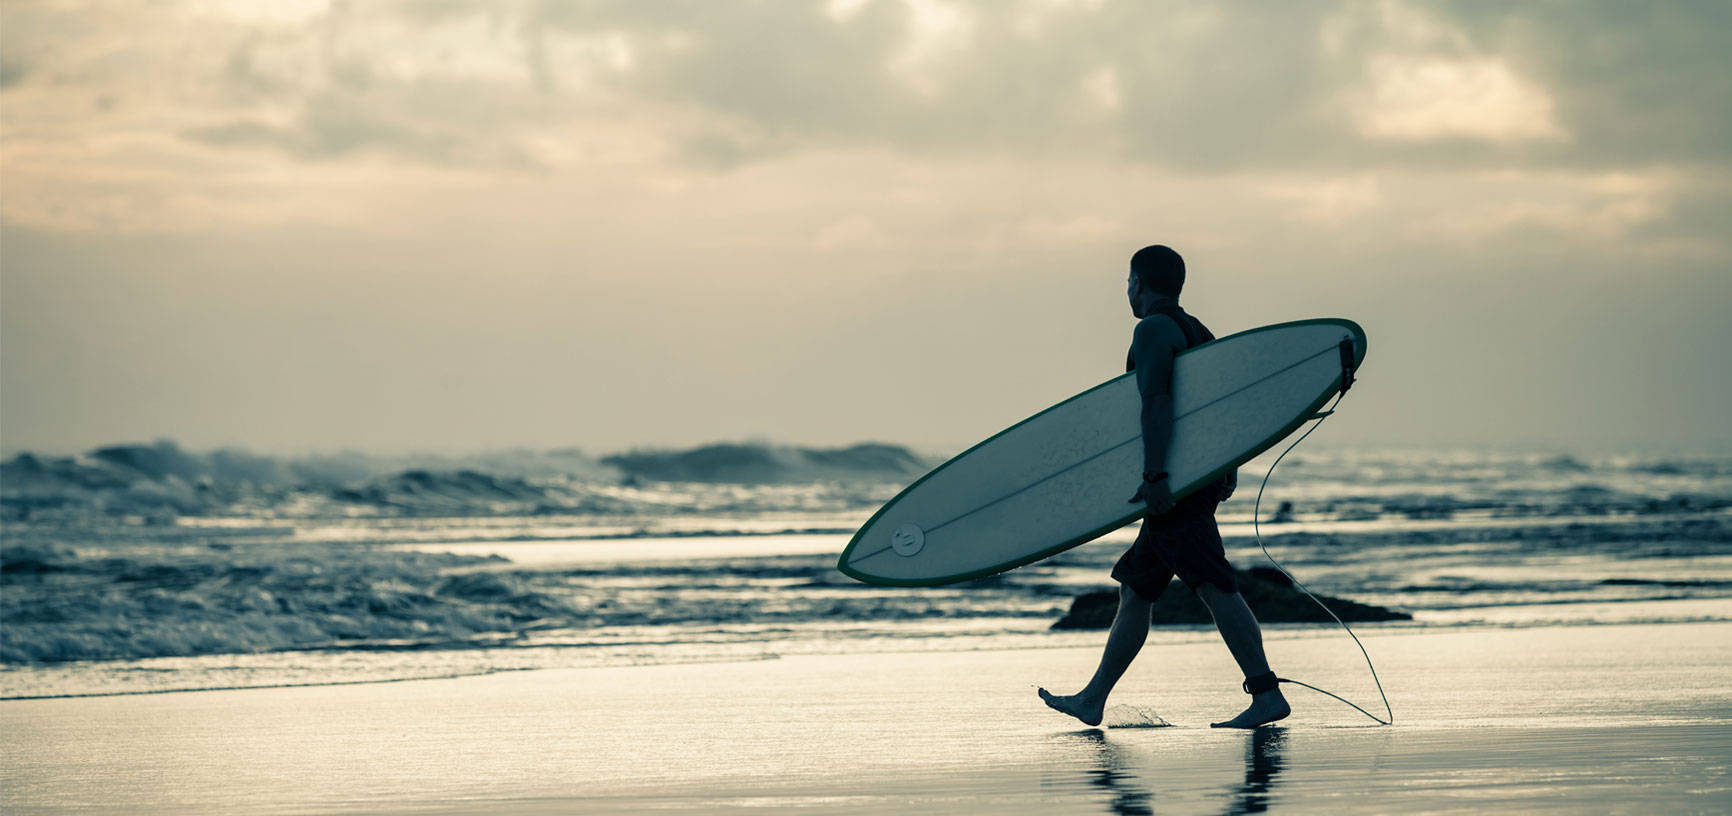
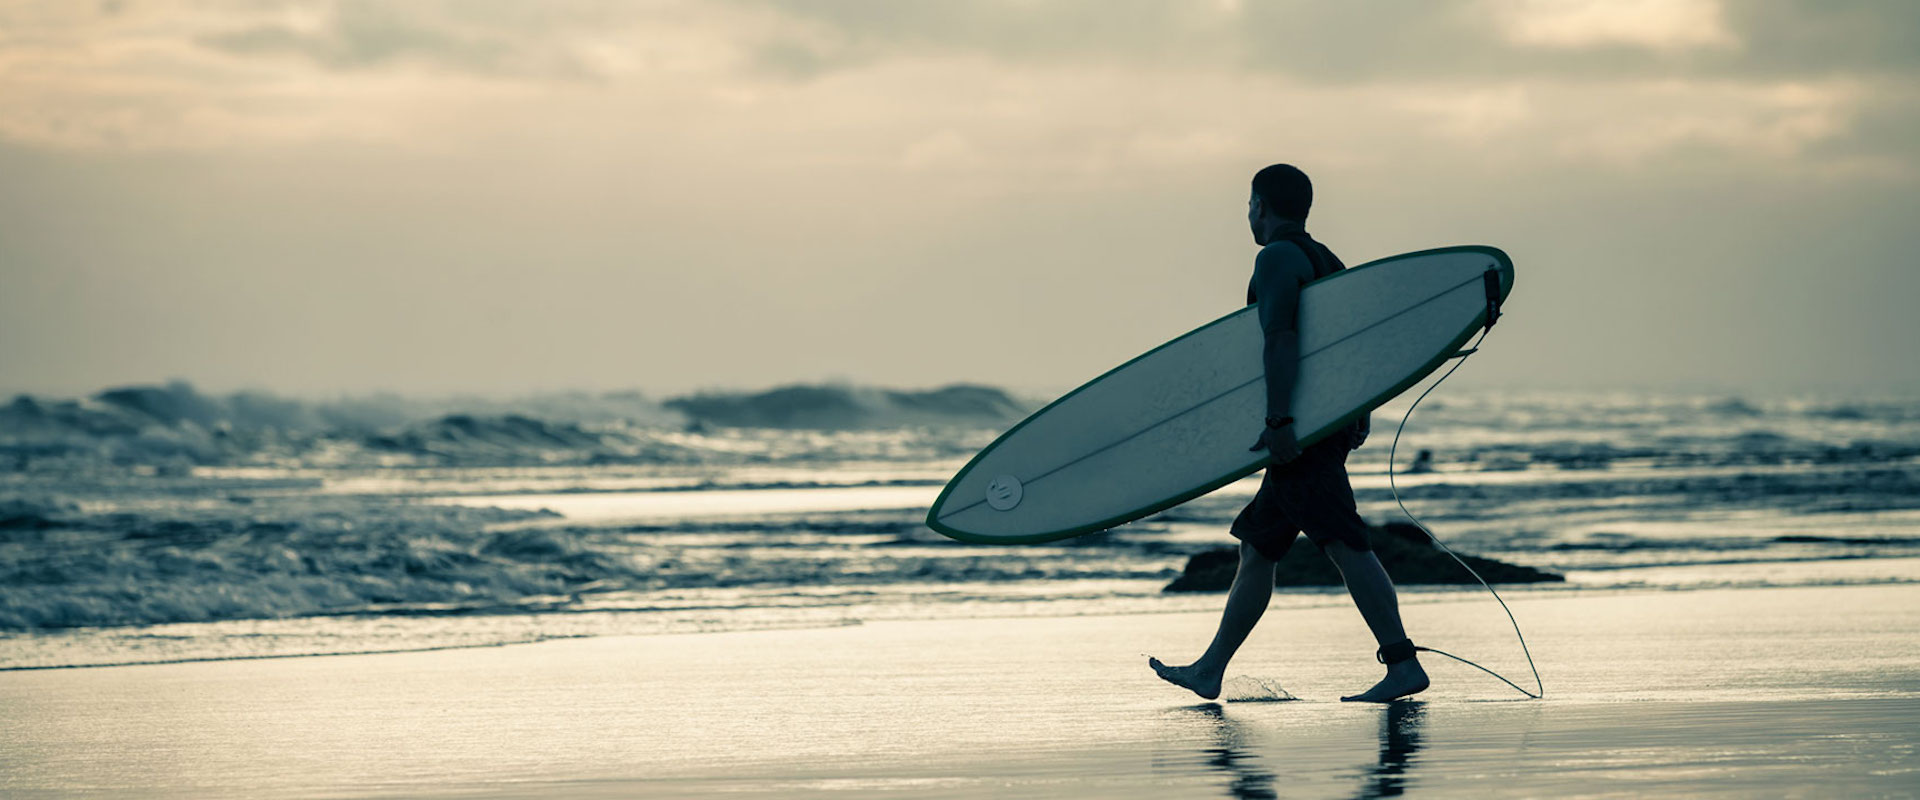
add backgroung image and content

diff --git a/src/scripts/script.js b/src/scripts/script.js
@@ -1,79 +1,139 @@
-const img1 = require('../static/img/main_home.jpg');
-const img2 = require('../static/img/main_spots.jpg');
-const img3 = require('../static/img/main_news.jpg');
+document.addEventListener('DOMContentLoaded', () => {
+  const img1 = require('../static/img/main_home.jpg');
+  const img2 = require('../static/img/main_spots.jpg');
+  const img3 = require('../static/img/main_news.jpg');
 
-// Model qui permet de récupérer la data
-class Model {
-  constructor() {
-    this.data = [
-      {
-        url: '/',
-        documentTitle: 'Homepage',
-        imgSrc: img1,
-        title: 'Acceuil',
-      },
-      {
-        url: '/spots',
-        documentTitle: 'All spots',
-        imgSrc: img2,
-        title: 'Spots map',
-      },
-      {
-        url: '/news',
-        documentTitle: 'News',
-        imgSrc: img3,
-        title: 'News',
-      },
-    ];
+  // Model qui permet de récupérer la data
+  class Model {
+    constructor() {
+      this.pages = [
+        {
+          url: '#',
+          documentTitle: 'Homepage',
+          imgSrc: img1,
+          title: 'Acceuil',
+          content: `
+            <div>
+            Lorem ipsum dolor sit amet consectetur adipisicing elit. Voluptate suscipit nihil dolores repellendus alias illum vitae. Et unde enim ducimus, exercitationem dolorum, eum omnis autem, quasi ipsa a illum animi.
+            Lorem ipsum dolor sit amet consectetur adipisicing elit. Voluptate suscipit nihil dolores repellendus alias illum vitae. Et unde enim ducimus, exercitationem dolorum, eum omnis autem, quasi ipsa a illum animi.
+            Lorem ipsum dolor sit amet consectetur adipisicing elit. Voluptate suscipit nihil dolores repellendus alias illum vitae. Et unde enim ducimus, exercitationem dolorum, eum omnis autem, quasi ipsa a illum animi.
+            </div>
+          `,
+        },
+        {
+          url: '#spots',
+          documentTitle: 'All spots',
+          imgSrc: img2,
+          title: 'Spots map',
+        },
+        {
+          url: '#news',
+          documentTitle: 'News',
+          imgSrc: img3,
+          title: 'News',
+        },
+      ];
+    }
+
+    getPageByUrl(url) {
+      return this.pages.find((page) => page.url === url);
+    }
   }
 
-  getPageByUrl(url) {
-    return this.data.find((page) => page.url === url);
+  // View qui permet de modifier le template html
+  class View {
+    constructor(pages) {
+      this.container = document.querySelector('.container');
+      this.container.innerHTML = '';
+      this.addHeader(pages);
+    }
+
+    addHeader(pages) {
+      const fragment = document.createDocumentFragment();
+
+      const $header = document.createElement('header');
+      $header.classList.add('header');
+
+      const $ulElt = document.createElement('ul');
+      $ulElt.classList.add('header__nav');
+
+      const $title = document.createElement('p');
+      $title.classList.add('header__title');
+      $title.innerText = 'Worlwide surf spots database';
+
+      pages.forEach((page) => {
+        const $liElt = document.createElement('li');
+        const $button = document.createElement('div');
+        $button.innerText = page.title;
+        $button.addEventListener('click', () => {
+          location.hash = page.url;
+        });
+
+        $liElt.appendChild($button);
+        $ulElt.appendChild($liElt);
+      });
+
+      $header.appendChild($ulElt);
+      $header.appendChild($title);
+      fragment.appendChild($header);
+      this.container.appendChild(fragment);
+    }
+
+    addContent(content) {
+      const fragment = document.createDocumentFragment();
+      const $content = document.createElement('div');
+      $content.classList.add('container__content');
+      $content.innerHTML = content;
+
+      fragment.appendChild($content);
+      this.container.appendChild(fragment);
+    }
+    changedocumentTile(option) {
+      document.title = option;
+    }
+
+    setBackgroungImage(option) {
+      const fragment = document.createDocumentFragment();
+
+      const $imageContainer = document.createElement('div');
+      $imageContainer.classList.add('container__image');
+      $imageContainer.style.backgroundImage = `url(${option})`;
+
+      fragment.appendChild($imageContainer);
+      this.container.appendChild(fragment);
+    }
+
+    setMainTitle(option) {
+      const fragment = document.createDocumentFragment();
+
+      const $mainTitle = document.createElement('h1');
+      $mainTitle.classList.add('container__title');
+      $mainTitle.textContent = option;
+
+      fragment.appendChild($mainTitle);
+      this.container.appendChild(fragment);
+    }
   }
-}
 
-// View qui permet de modifier le template html
-class View {
-  constructor() {
-    this.container = document.querySelector('.container');
+  // Controller qui permet de gérer l'ensemble de l'application
+  function controller() {
+    const data = new Model();
+
+    const currentPage = data.getPageByUrl(location.hash || '#');
+
+    const render = new View(data.pages);
+    render.changedocumentTile(currentPage.documentTitle);
+    render.setBackgroungImage(currentPage.imgSrc);
+    render.setMainTitle(currentPage.title);
+
+    if (currentPage.content) {
+      render.addContent(currentPage.content);
+    }
   }
 
-  changedocumentTile(option) {
-    document.title = option;
-  }
+  window.addEventListener('hashchange', () => {
+    controller();
+  });
 
-  setBackgroungImage(option) {
-    const $imageContainer = document.createElement('div');
-    $imageContainer.classList.add('container__image');
-
-    const $backgroundImg = document.createElement('img');
-    $backgroundImg.setAttribute('src', option);
-    $backgroundImg.classList.add('image');
-
-    $imageContainer.appendChild($backgroundImg);
-    this.container.appendChild($imageContainer);
-  }
-
-  setMainTitle(option) {
-    const $mainTitle = document.createElement('h1');
-    $mainTitle.classList.add('container__title');
-    $mainTitle.textContent = option;
-
-    this.container.appendChild($mainTitle);
-  }
-}
-
-// Controller qui permet de gérer l'ensemble de l'application
-function controller() {
-  const currentUrl = document.location.pathname;
-  const data = new Model();
-
-  const currentPage = data.getPageByUrl(currentUrl);
-
-  const render = new View();
-  render.changedocumentTile(currentPage.documentTitle);
-  render.setBackgroungImage(currentPage.imgSrc);
-  render.setMainTitle(currentPage.title);
-}
-
-controller();
+  controller();
+});

diff --git a/src/scss/container/container.scss b/src/scss/container/container.scss
@@ -1,24 +1,30 @@
 .container {
+  width: 100%;
   display: flex;
   flex-direction: column;
   align-items: center;
 }
 
 .container__image {
+  margin-top: 60px;
   width: 100%;
-}
-
-.image {
-  width: 100%;
-  max-height: 500px;
+  height: 40vw;
+  max-height: 550px;
+  background-size: 100% auto;
+  background-repeat: no-repeat;
 }
 
 .container__title {
-  width: 80%;
-  background-color: $dark-color-opacity;
-
+  align-self: flex-end;
+  margin-right: 5%;
+  width: 40%;
+  background-color: $light-color;
   padding: 30px;
-  font-size: 3rem;
+  font-size: 1rem;
   transform: translateY(-50%);
-  color: $light-color;
+  color: $dark-color;
+
+  @include medium {
+    font-size: 2rem;
+  }
 }

diff --git a/src/scss/header/header.scss b/src/scss/header/header.scss
@@ -1,16 +1,17 @@
 .header {
+  position: fixed;
   display: flex;
   justify-content: space-between;
   align-items: center;
   height: 60px;
   width: 100%;
   padding: 0 20px;
-  background-color: $dark-color;
+  background-color: teal;
   color: $light-color;
 }
 
 .header__nav {
-  width: 20%;
+  width: 250px;
   height: 100%;
   display: flex;
   align-items: center;
@@ -18,6 +19,7 @@
 
   & li:hover {
     text-decoration: underline;
+    cursor: pointer;
   }
 }
 

diff --git a/src/index.html b/src/index.html
@@ -8,14 +8,6 @@
     <title>Surfs Spots</title>
   </head>
   <body>
-    <header class="header">
-      <ul class="header__nav">
-        <li><a href="/">Home</a></li>
-        <li><a href="/spots">Spots</a></li>
-        <li><a href="/news">News</a></li>
-      </ul>
-      <p class="header__title">Worlwide surf spots database</p>
-    </header>
     <main class="container"></main>
   </body>
   <script src="scripts/script.js"></script>

diff --git a/src/scss/styles.scss b/src/scss/styles.scss
@@ -1,5 +1,6 @@
 @import 'global/reset.scss';
 @import 'global/fonts.scss';
+@import 'global/mixin.scss';
 @import 'global/variables.scss';
 @import 'global/body.scss';
 

diff --git a/src/scss/global/mixin.scss b/src/scss/global/mixin.scss
@@ -1,0 +1,11 @@
+@mixin medium {
+  @media (min-width: 768px) {
+    @content;
+  }
+}
+
+@mixin large {
+  @media (min-width: 1280px) {
+    @content;
+  }
+}

diff --git a/src/scss/global/body.scss b/src/scss/global/body.scss
@@ -1,3 +1,6 @@
 body {
   font-family: $primary-font;
+  display: flex;
+  flex-direction: column;
+  align-items: center;
 }
